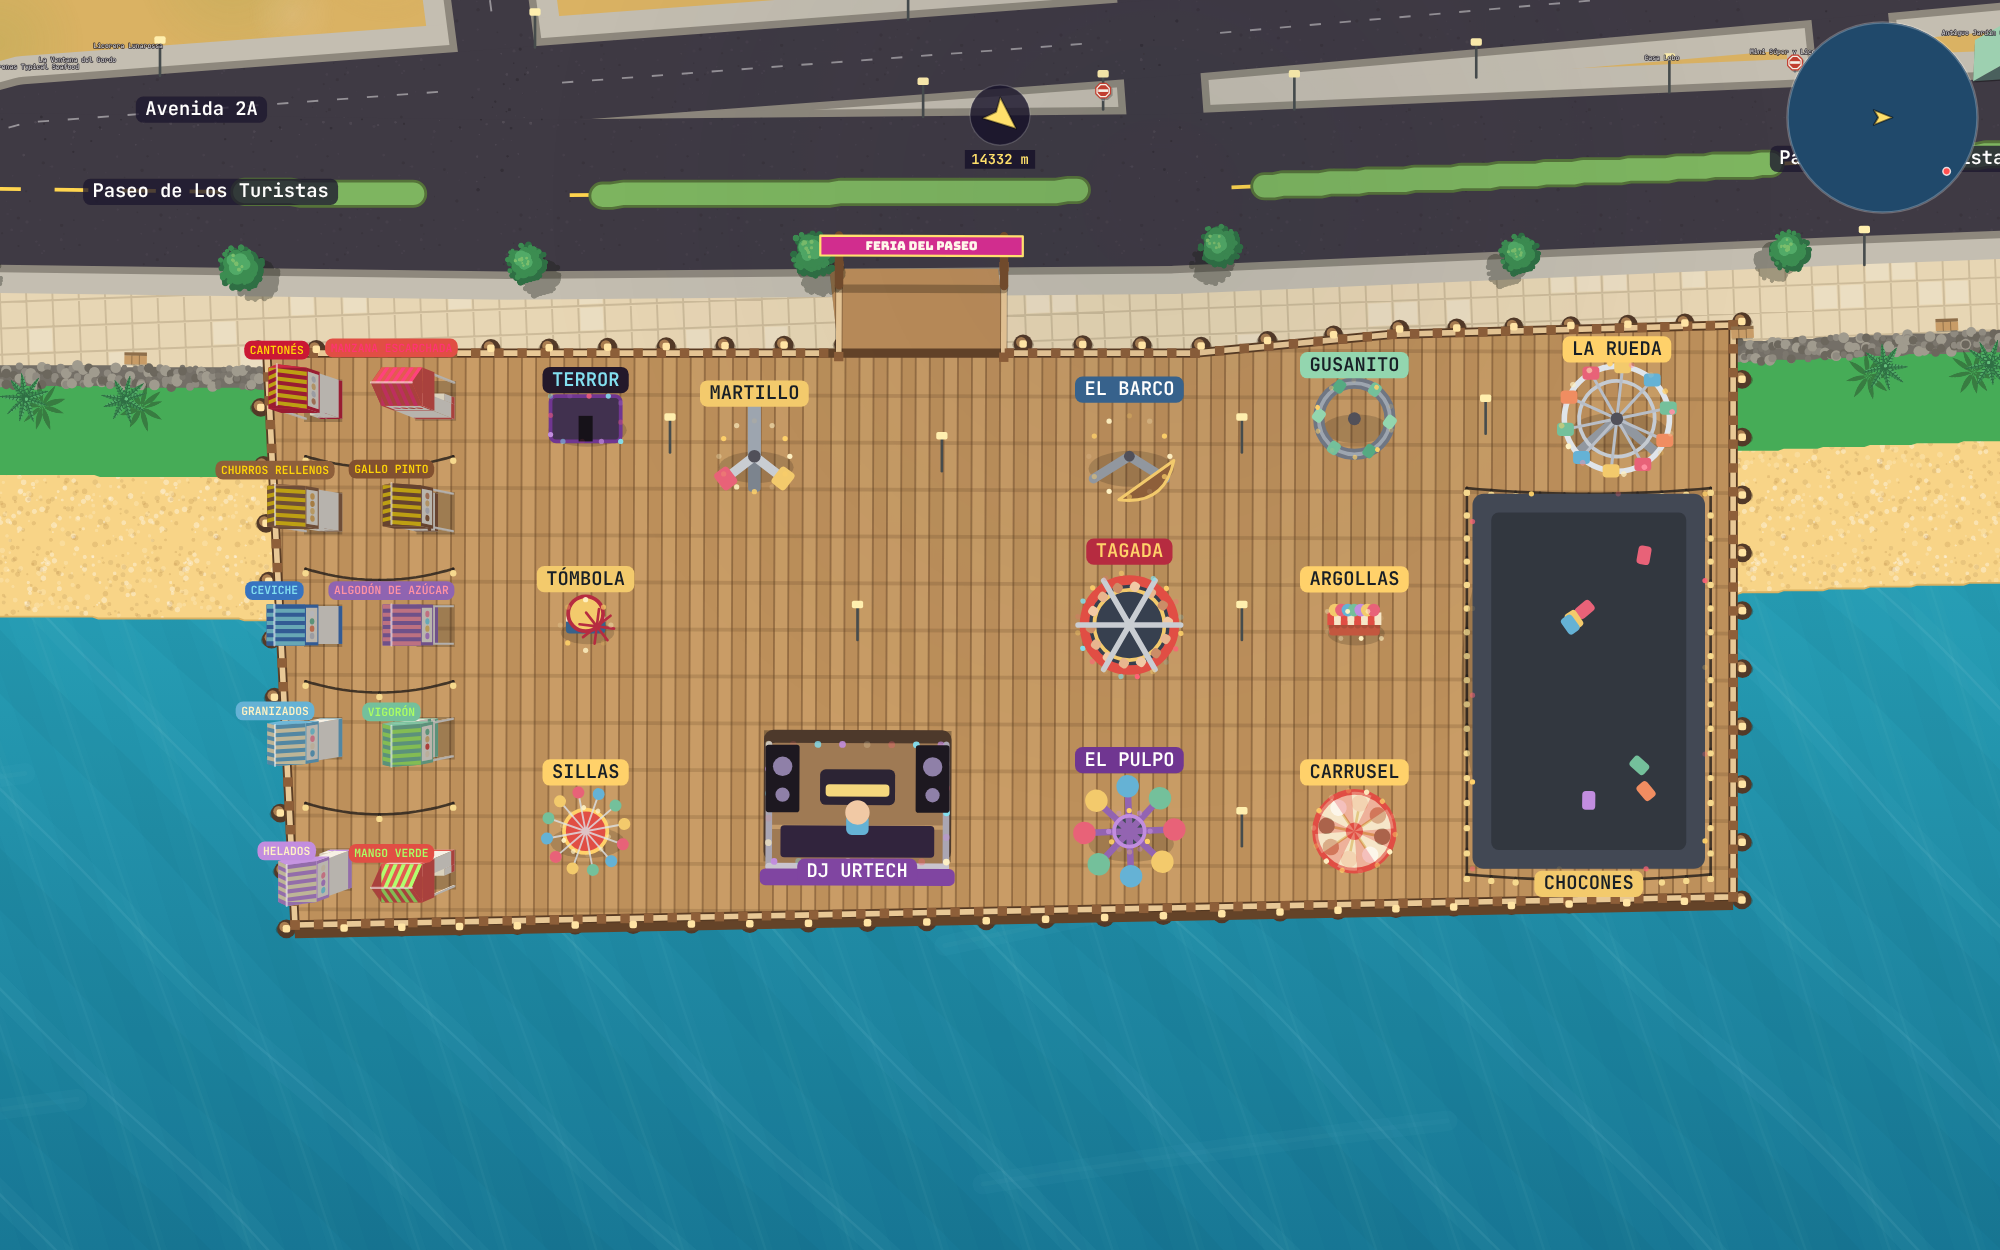
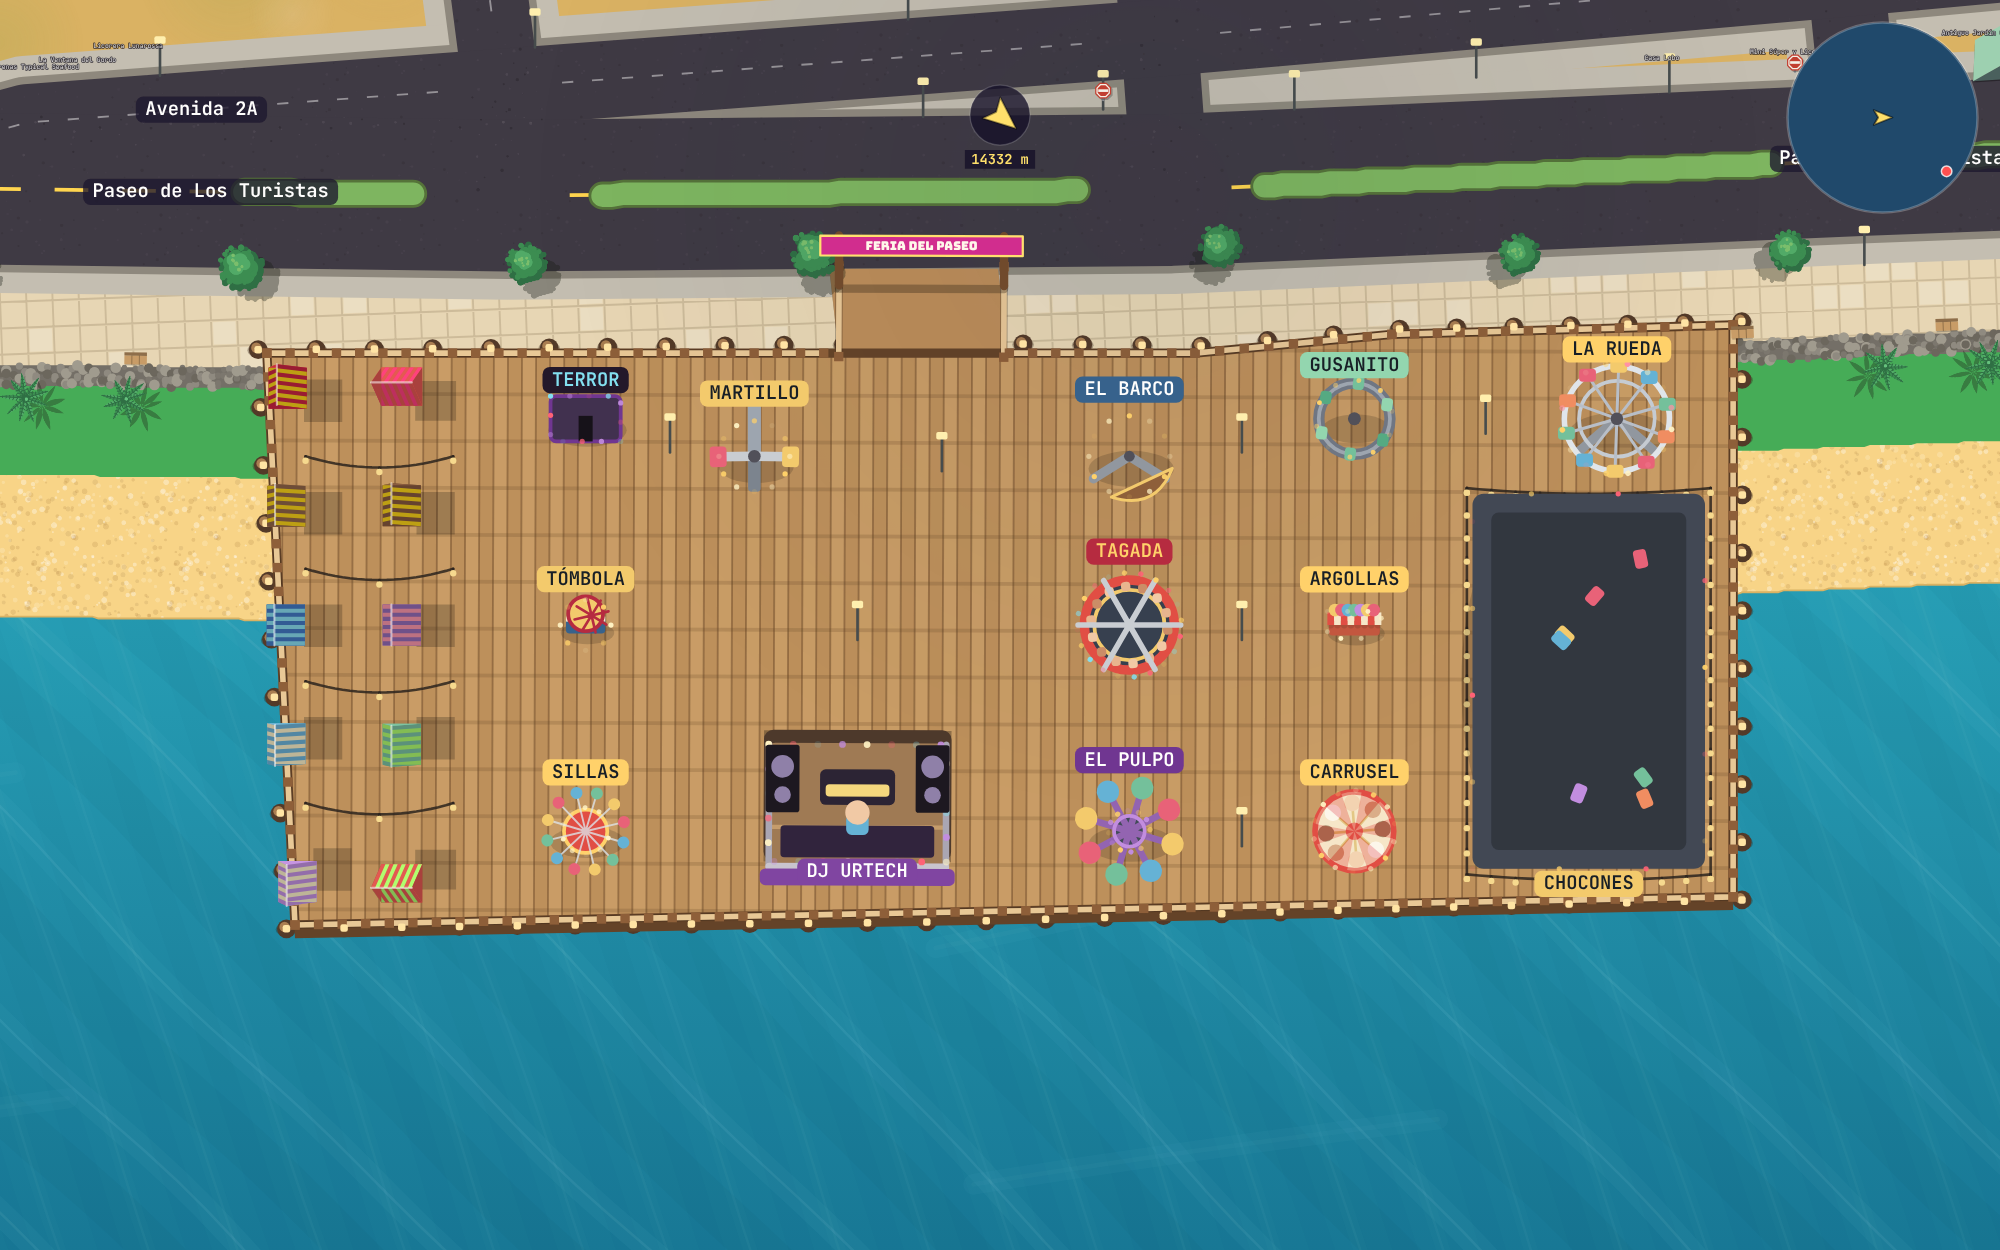
fix(feria): los chinamos, sólo su toldo, sin rótulo y del lado correcto
Los diez puestos de comida de la feria se quedan con el techo a rayas en
perspectiva y nada más: sin caseta, sin mostrador, sin estampado y sin
rótulo encima. Iban girados al revés: el cuerpo pone su frente en +v y el
arte plano del chinamo en +y, así que se les suma media vuelta.

pnpm test: sólo el error conocido (falta world-editor). smoke y smoke:feria
pasan.

Claude-Session: https://claude.ai/code/session_018GSydgtbAbdgpJPFkJ2EAM

diff --git a/src/render/c2d/attractions.js b/src/render/c2d/attractions.js
@@ -113,19 +113,16 @@ export function paintRide(g, kind, r, t = 0, ph = 0, A = { food: 0 }) {
 const FACING_OFFSET = Object.freeze({ "+x": 0, "+y": -Math.PI / 2,
   "-x": Math.PI, "-y": Math.PI / 2 });
 
-// EL CHINAMO ES UN QUIOSCO. Se levanta con el mismo cuerpo 2.5D que los quioscos del juego
-// (`world-props.json → bodies.chinamo`): toldo a rayas del color de su comida, mostrador al frente y su
-// comida estampada en la pared. El arte plano de `feriaAssets.json → chinamo` queda para la hoja de la
+// EL CHINAMO ES EL TOLDO DE UN QUIOSCO. Se levanta con el mismo pintor 2.5D que los quioscos del juego
+// (`world-props.json → bodies.chinamo`): sólo su techo a rayas, en los colores de su comida, sin rótulo. El arte plano de `feriaAssets.json → chinamo` queda para la hoja de la
 // feria y el editor (`paintRide`).
 function queueChinamo(A) {
   const food = foodOf(A), spec = PROPS.bodies.chinamo;
-  // el arte del chinamo mira a +y; el cuerpo pone su frente en +v: los dos giros coinciden en A.ang - π/2
-  const ang = (A.ang || 0) + FACING_OFFSET[ASSETS.chinamo.facing || "+x"];
-  const goods = (food.goods || []).map((fill, i) => ({ shape: "disc", fill, cx: -9 + i * 6, cy: 1, r: 2.6 }));
+  // el arte plano del chinamo mira a +y; el cuerpo pone su frente en +v, que con este giro queda
+  // del lado contrario: se le suma media vuelta para que el mostrador dé al pasillo de la feria
+  const ang = (A.ang || 0) + FACING_OFFSET[ASSETS.chinamo.facing || "+x"] + Math.PI;
   queueBody(bodyAt(spec, A.x, A.y, ang, `chinamo:${A.food}`),
-    { body: KIOSK.chinamoBody, awning: food.accent, awning2: food.ink,
-      _decal: { box: [-14, -6, 28, 13], bg: KIOSK.chinamoBody, parts: goods } },
-    { text: food.label, fg: KIOSK.chinamoPillFg, bg: food.accent, size: KIOSK.chinamoPillPx });
+    { body: KIOSK.chinamoBody, awning: food.accent, awning2: food.ink });
 }
 function foodOf(A) {
   const foods = ASSETS.chinamo.foods, keys = Object.keys(foods);
